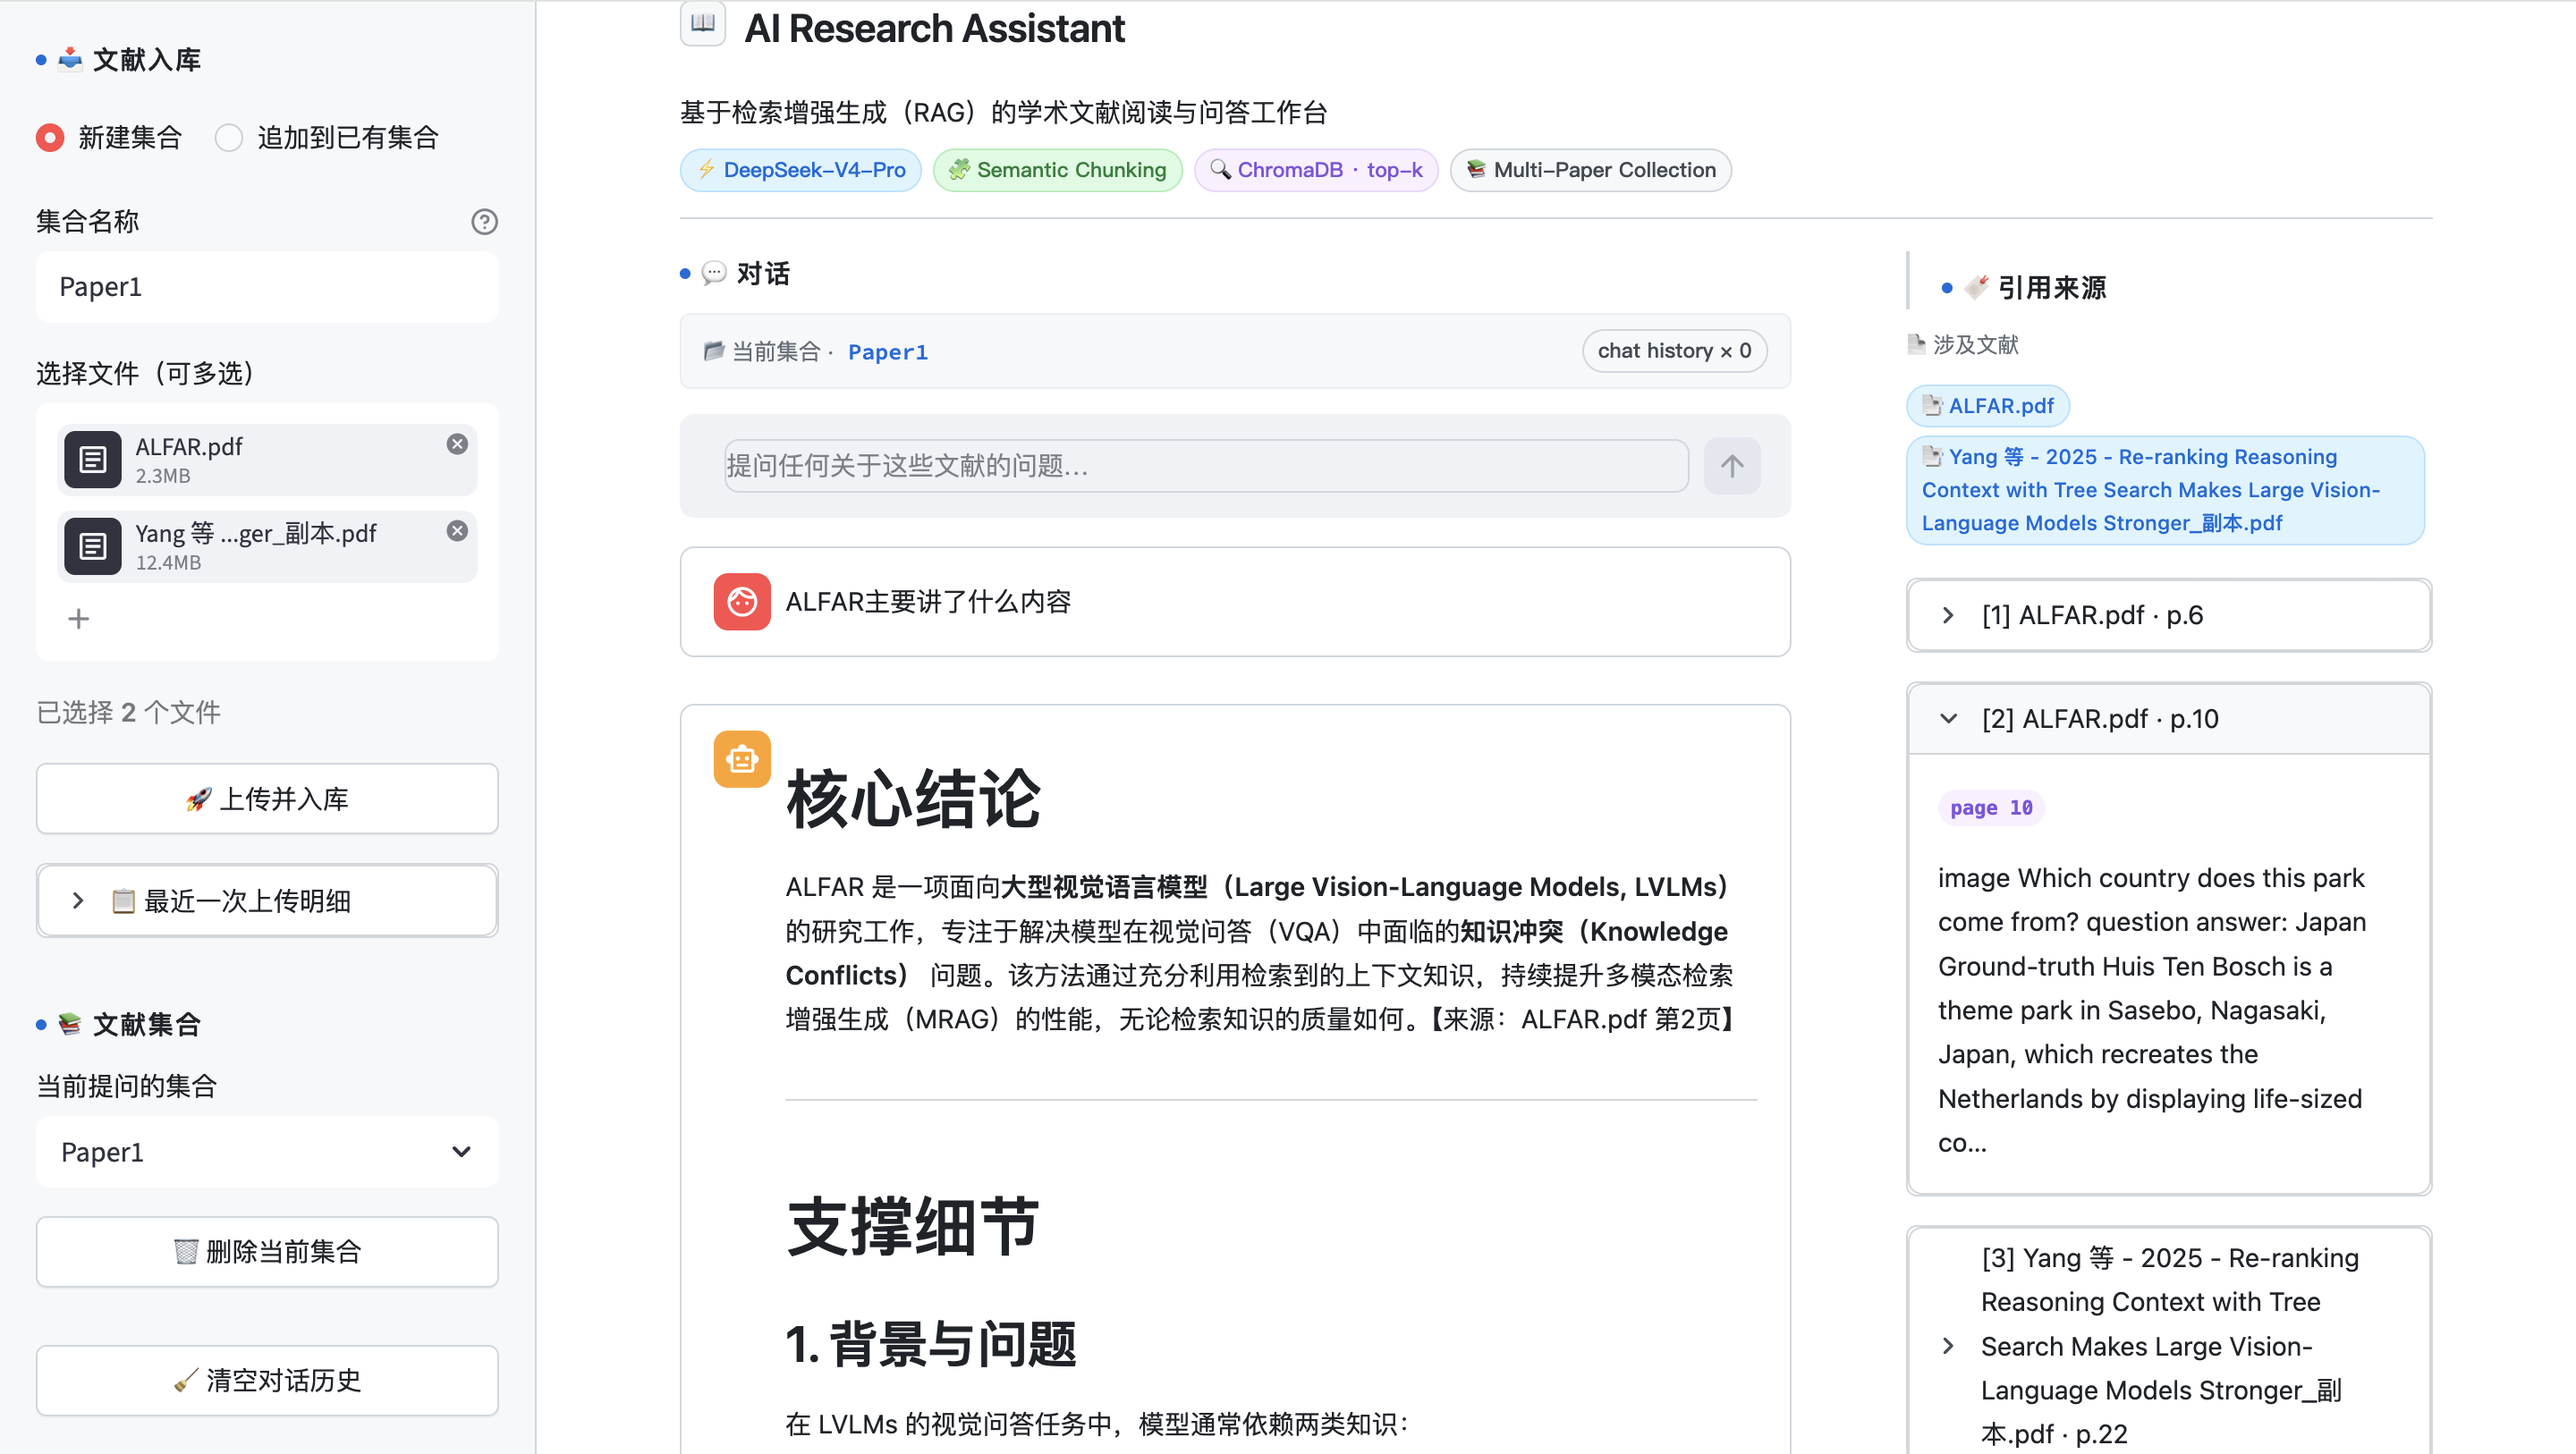
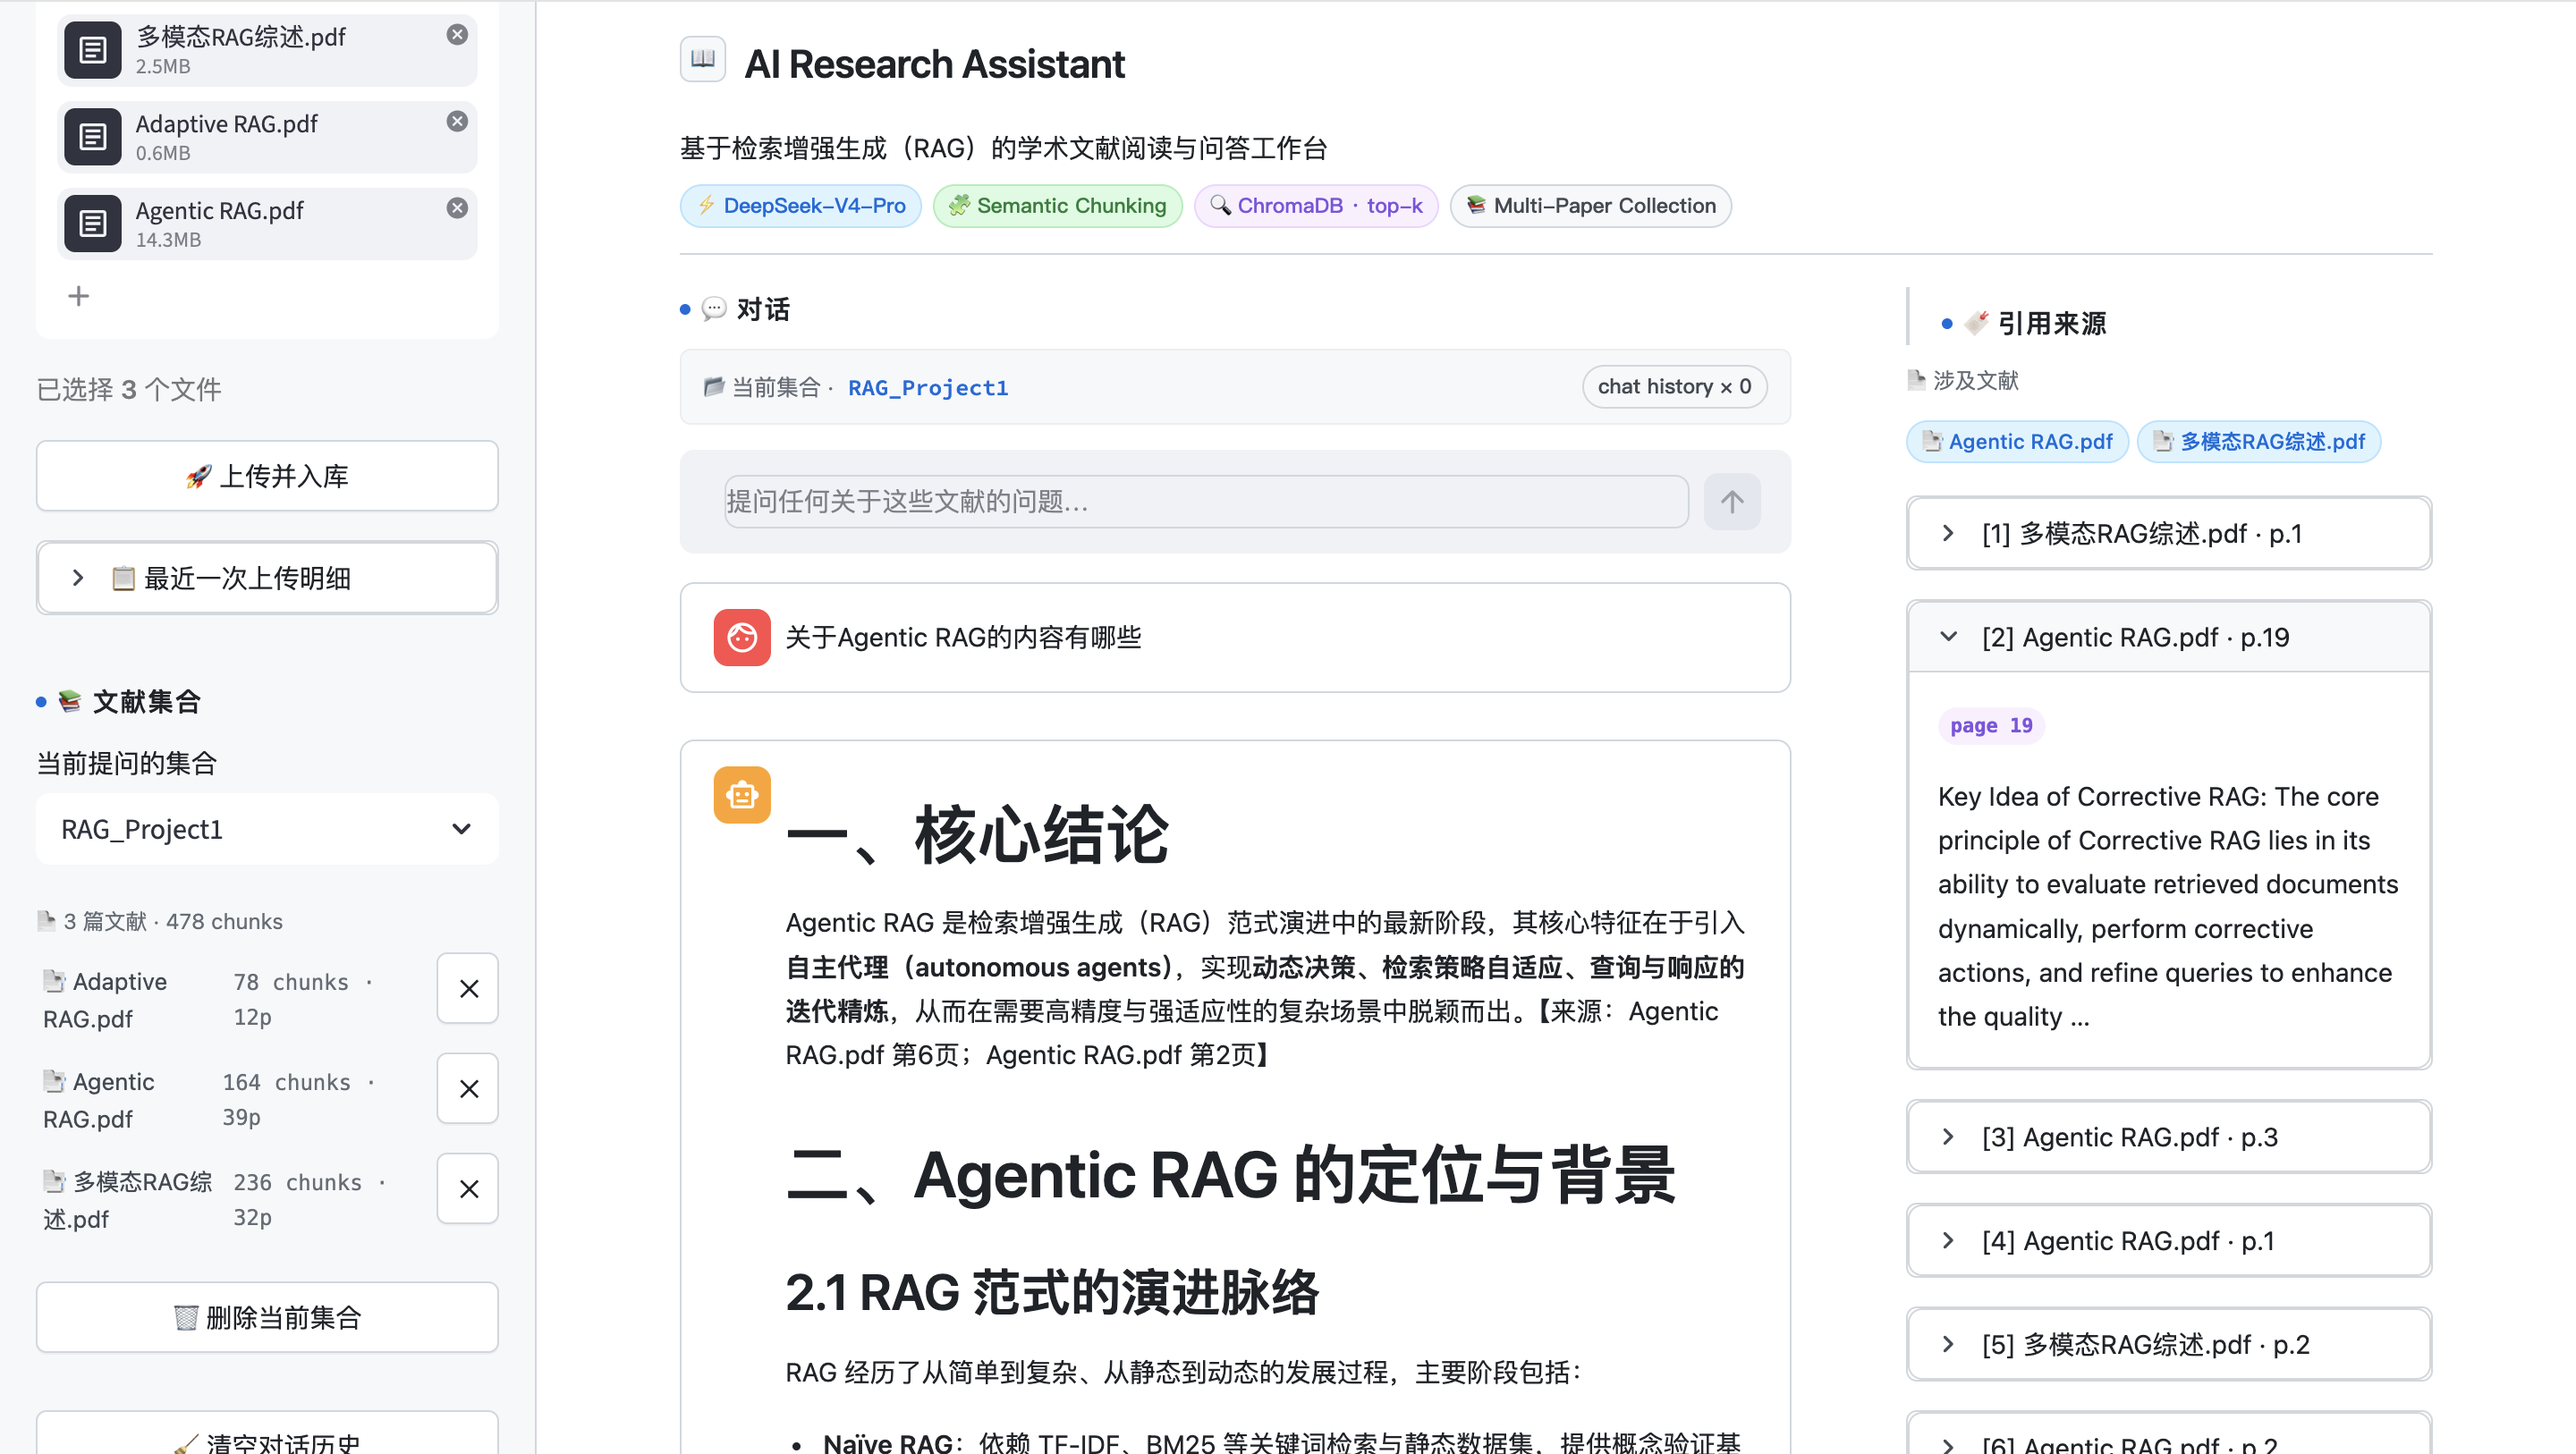
chore: bump RETRIEVER_MAX_K 10->12, refresh screenshot

diff --git a/core/config.py b/core/config.py
@@ -28,7 +28,7 @@ class Settings(BaseSettings):
     retriever_score_threshold: float = 0.75  # cosine distance，越小越相关；≤阈值才保留
     # 注：针对默认双语模型校准——问句↔段落的真实命中约 0.5~0.65，噪声约 >0.9
     retriever_min_k: int = 3             # 兜底最少返回，保证有上下文
-    retriever_max_k: int = 10            # 上限，避免上下文过长
+    retriever_max_k: int = 12            # 上限，避免上下文过长
 
     llm_temperature: float = 0.2
     llm_max_tokens: int = 20480

diff --git a/README.md b/README.md
@@ -108,7 +108,7 @@ LLM_MODEL=deepseek-v4-pro
 | `RETRIEVER_ADAPTIVE` | `true` | 是否启用自适应检索（见下方说明） |
 | `RETRIEVER_FETCH_K` | `20` | 自适应模式下初次召回的「大池」规模 |
 | `RETRIEVER_SCORE_THRESHOLD` | `0.75` | cosine distance 阈值，≤ 此值才算相关（已针对默认双语模型校准） |
-| `RETRIEVER_MIN_K` / `RETRIEVER_MAX_K` | `3` / `10` | 自适应保留块数的下限 / 上限 |
+| `RETRIEVER_MIN_K` / `RETRIEVER_MAX_K` | `3` / `12` | 自适应保留块数的下限 / 上限 |
 | `LLM_TEMPERATURE` | `0.2` | 学术问答场景建议低温度，避免发散 |
 | `LLM_MAX_TOKENS` | `20480` | 输出 token 上限；详尽分析、跨论文综述建议设大 |
 | `EMBEDDING_MODEL` | `paraphrase-multilingual-MiniLM-L12-v2` | **中英双语**本地嵌入（fastembed / ONNX，约 220MB） |
